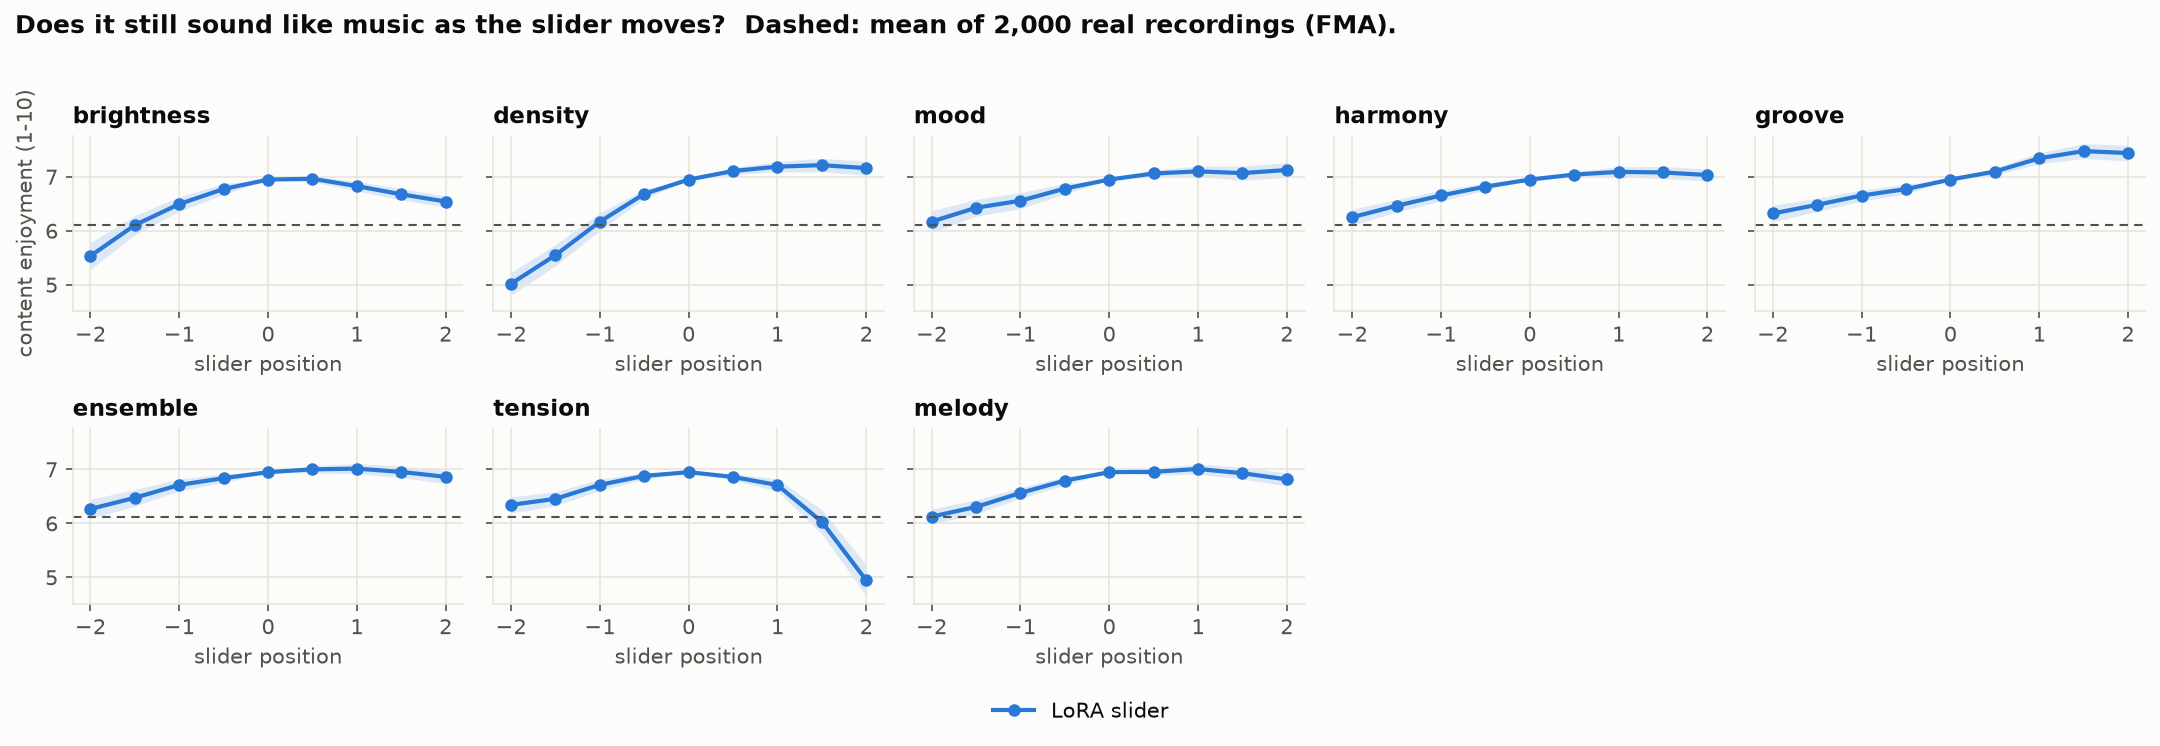
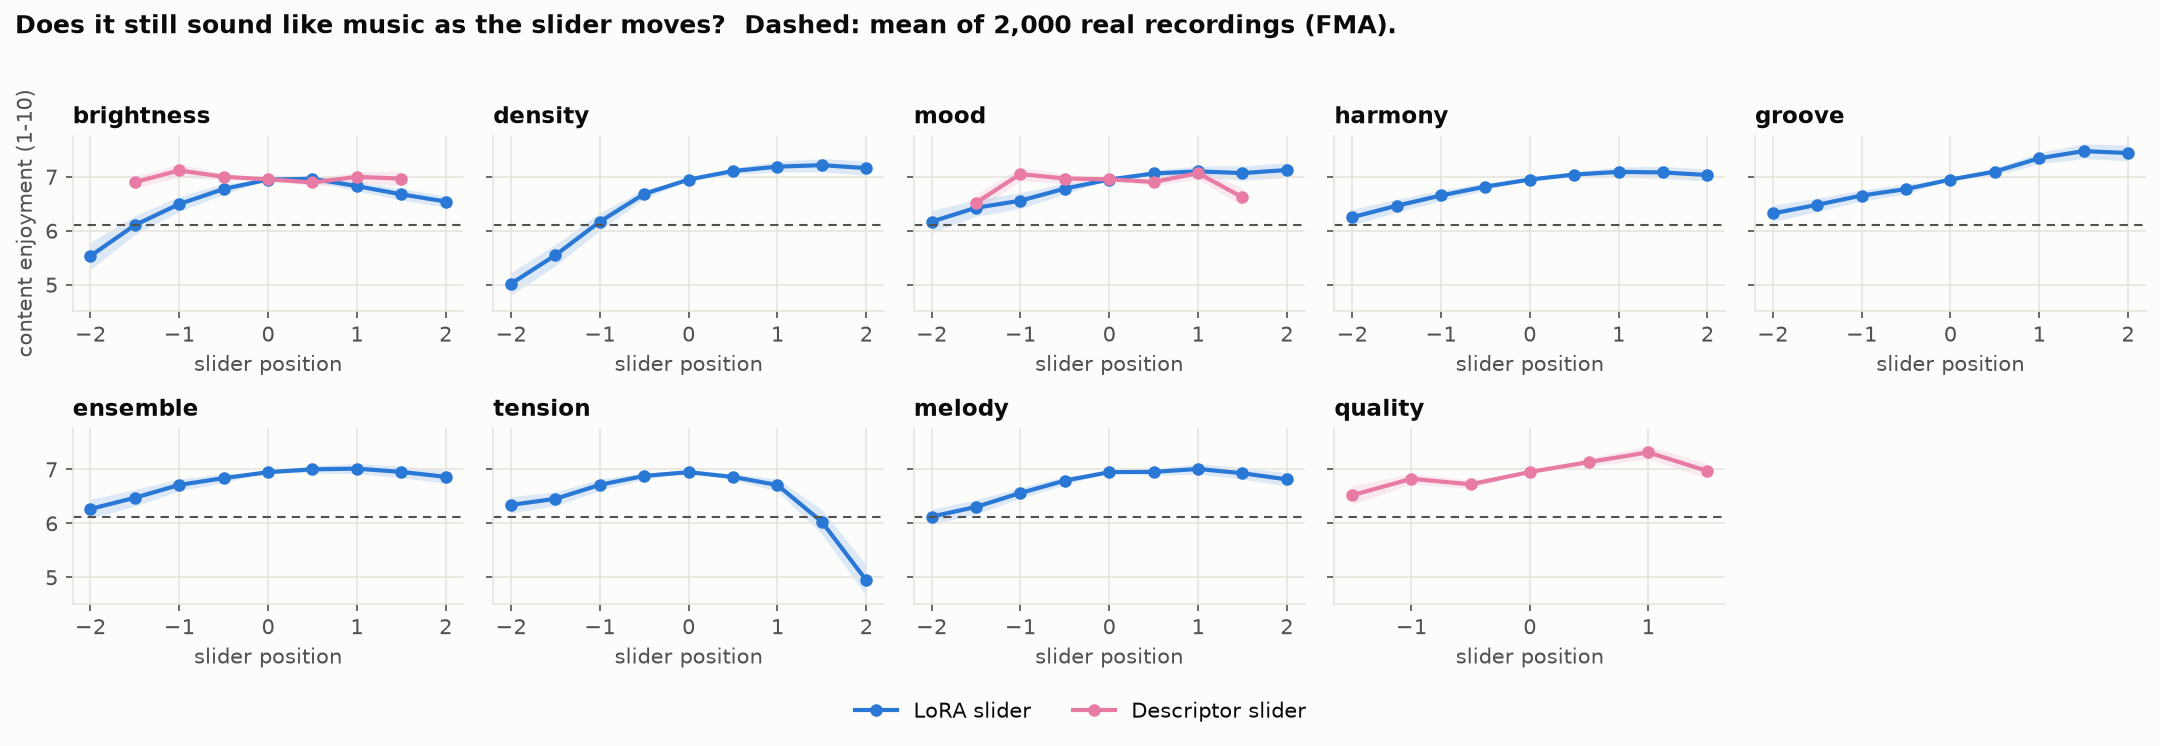
Baselines on ACE-Step: prompt-pair guidance, prompt interpolation, activation steering
All four methods on the same 24 prompts and three seeds, scored on the
waveform descriptor and on MuQ-MuLan. The trained slider matches prompt-pair
guidance with one forward pass per step instead of three and beats it on
harmony. Prompt interpolation has the lowest correlation everywhere and drops
enjoyment to 4.2-5.9 at the ends.

report.py: --figure-methods limits what the main figures draw, --compare
writes a separate method-comparison figure, and the legend now collects
methods from every panel.

diff --git a/experiments/report.py b/experiments/report.py
@@ -41,6 +41,16 @@ def style(plt):
     })
 
 
+def legend(fig, axes, y):
+    """One legend for the figure, collecting every method that appears in any panel."""
+    seen = {}
+    for ax in axes.flat:
+        for h, l in zip(*ax.get_legend_handles_labels()):
+            seen.setdefault(l, h)
+    order = [LABELS[m] for m in COLORS if LABELS[m] in seen]
+    fig.legend([seen[l] for l in order], order, loc="lower center", ncol=len(order), frameon=False, bbox_to_anchor=(0.5, y))
+
+
 def load(root: Path):
     runs = {}
     for d in sorted(root.iterdir()):
@@ -50,7 +60,7 @@ def load(root: Path):
     return runs
 
 
-def response_figure(runs, spec, out, plt):
+def response_figure(runs, spec, out, plt, file="response.png"):
     sliders = [s for s in spec if spec[s].get("measure") and any(k[1] == s for k in runs)]
     cols = min(4, len(sliders))
     rows_n = int(np.ceil(len(sliders) / cols))
@@ -72,11 +82,10 @@ def response_figure(runs, spec, out, plt):
     for ax in axes.flat[len(sliders):]:
         ax.axis("off")
     axes[0, 0].set_ylabel("change in descriptor\n(std of unsteered clips)")
-    handles, labels = axes[0, 0].get_legend_handles_labels()
-    fig.legend(handles, labels, loc="lower center", ncol=len(handles), frameon=False, bbox_to_anchor=(0.5, -0.02))
+    legend(fig, axes, -0.02)
     fig.suptitle("Does the measured descriptor follow the slider?", x=0.01, ha="left", fontweight="bold", fontsize=13)
     fig.tight_layout(rect=(0, 0.04, 1, 0.96))
-    fig.savefig(out / "response.png", bbox_inches="tight")
+    fig.savefig(out / file, bbox_inches="tight")
     plt.close(fig)
 
 
@@ -101,8 +110,7 @@ def tradeoff_figure(runs, spec, out, plt):
     for ax in axes.flat[len(sliders):]:
         ax.axis("off")
     axes[0, 0].set_ylabel("CLAP similarity to unsteered clip")
-    handles, labels = axes[0, 0].get_legend_handles_labels()
-    fig.legend(handles, labels, loc="lower center", ncol=len(handles), frameon=False, bbox_to_anchor=(0.5, -0.02))
+    legend(fig, axes, -0.02)
     fig.suptitle("How much of the clip survives a given amount of change?", x=0.01, ha="left", fontweight="bold",
                  fontsize=13)
     fig.tight_layout(rect=(0, 0.04, 1, 0.96))
@@ -136,7 +144,7 @@ def leakage_figure(runs, spec, method, out, plt):
     return names, table
 
 
-def quality_figure(runs, spec, out, plt, real_mean=None):
+def quality_figure(runs, spec, out, plt, real_mean=None, file="quality.png"):
     """Aesthetics content-enjoyment at each slider position: a flat line means the music survives."""
     sliders = [s for s in spec if any(k[1] == s and any("ce" in r for r in v) for k, v in runs.items())]
     if not sliders:
@@ -158,13 +166,12 @@ def quality_figure(runs, spec, out, plt, real_mean=None):
     for ax in axes.flat[len(sliders):]:
         ax.axis("off")
     axes[0, 0].set_ylabel("content enjoyment (1-10)")
-    handles, labels = axes[0, 0].get_legend_handles_labels()
-    fig.legend(handles, labels, loc="lower center", ncol=len(handles), frameon=False, bbox_to_anchor=(0.5, -0.03))
+    legend(fig, axes, -0.03)
     note = "  Dashed: mean of 2,000 real recordings (FMA)." if real_mean is not None else ""
     fig.suptitle("Does it still sound like music as the slider moves?" + note, x=0.01, ha="left", fontweight="bold",
                  fontsize=12)
     fig.tight_layout(rect=(0, 0.04, 1, 0.95))
-    fig.savefig(out / "quality.png", bbox_inches="tight")
+    fig.savefig(out / file, bbox_inches="tight")
     plt.close(fig)
 
 
@@ -197,6 +204,10 @@ def main():
     ap.add_argument("--max-scale", type=float, default=None, help="ignore scales beyond this magnitude")
     ap.add_argument("--real", default=None, help="directory with clap.npy and rows.jsonl of real recordings")
     ap.add_argument("--vocab", default=None, help="vocab.npz with tag text embeddings")
+    ap.add_argument("--figure-methods", nargs="+", default=None,
+                    help="methods drawn in response.png, tradeoff.png and quality.png; default all")
+    ap.add_argument("--compare", nargs="+", default=None,
+                    help="also draw compare_response.png and compare_quality.png for these methods, on sliders that have them all")
     args = ap.parse_args()
 
     import matplotlib
@@ -269,9 +280,14 @@ def main():
         summary_columns=[dict(key=k, label=l, digits=d) for k, l, d in cols],
     ), default=lambda o: None if isinstance(o, float) and not np.isfinite(o) else o))
 
-    response_figure(runs, spec, out, plt)
-    tradeoff_figure(runs, spec, out, plt)
-    quality_figure(runs, spec, out, plt, real_ce)
+    shown = {k: v for k, v in runs.items() if args.figure_methods is None or k[0] in args.figure_methods}
+    response_figure(shown, spec, out, plt)
+    tradeoff_figure(shown, spec, out, plt)
+    quality_figure(shown, spec, out, plt, real_ce)
+    if args.compare:
+        both = {k: v for k, v in runs.items() if k[0] in args.compare and all((m, k[1]) in runs for m in args.compare)}
+        response_figure(both, spec, out, plt, "compare_response.png")
+        quality_figure(both, spec, out, plt, real_ce, "compare_quality.png")
     if args.vocab:
         tag_table(Path(args.eval), runs, spec, args.vocab, out)
     with (out / "leakage.csv").open("w", newline="") as f:

diff --git a/results/ace/tags.md b/results/ace/tags.md
@@ -1,6 +1,40 @@
 | Slider | Method | Rises toward + | Falls toward + |
 |---|---|---|---|
 | none | base | dark-toned (+0.000), bright (+0.000), classical (+0.000), rock (+0.000) | piano (+0.000), complex (+0.000), simple (+0.000), dense (+0.000) |
+| brightness | Activation steering | happy (+0.379), repetitive (+0.335), romantic (+0.261), acoustic (+0.257) | distorted (-0.194), dark-toned (-0.168), lo-fi (-0.167), dark (-0.098) |
+| density | Activation steering | repetitive (+0.218), complex (+0.217), romantic (+0.214), latin (+0.189) | lo-fi (-0.093), dark-toned (-0.079), quiet (-0.076), hip hop (-0.067) |
+| ensemble | Activation steering | orchestral film score (+0.197), reverberant (+0.158), epic (+0.156), choir (+0.156) | straight (-0.071), funk (-0.046), pop (-0.042), loud (-0.037) |
+| groove | Activation steering | funk (+0.234), happy (+0.214), repetitive (+0.208), latin (+0.203) | choir (-0.108), strings (-0.073), cello (-0.067), flute (-0.062) |
+| harmony | Activation steering | minor key (+0.107), complex (+0.095), major key (+0.085), melancholic (+0.081) | vocals (-0.068), drums (-0.058), strings (-0.044), folk (-0.040) |
+| melody | Activation steering | happy (+0.194), romantic (+0.174), country (+0.170), blues (+0.165) | lo-fi (-0.093), mysterious (-0.075), distorted (-0.071), ambient (-0.057) |
+| mood | Activation steering | happy (+0.384), repetitive (+0.364), latin (+0.329), romantic (+0.304) | distorted (-0.109), dark-toned (-0.090), flute (-0.083), cello (-0.034) |
+| tension | Activation steering | metal (+0.106), techno (+0.095), bass guitar (+0.082), brass (+0.082) | melancholic (-0.214), uplifting (-0.191), repetitive (-0.181), sad (-0.180) |
+| bass | Community slider | distorted (+0.139), brass (+0.136), trumpet (+0.102), vocals (+0.090) | happy (-0.414), melancholic (-0.380), uplifting (-0.375), minor key (-0.369) |
+| energy | Community slider | rock (+0.285), blues (+0.227), metal (+0.226), country (+0.206) | calm (-0.322), reverberant (-0.310), melancholic (-0.272), dreamy (-0.267) |
+| groove | Community slider | funk (+0.495), latin (+0.424), reggae (+0.409), happy (+0.407) | choir (-0.404), reverberant (-0.277), harp (-0.242), cello (-0.228) |
+| mood | Community slider | repetitive (+0.291), happy (+0.258), funk (+0.218), latin (+0.199) | distorted (-0.128), dark-toned (-0.121), vocals (-0.093), flute (-0.089) |
+| percussion | Community slider | metal (+0.303), brass (+0.260), rock (+0.236), aggressive (+0.227) | calm (-0.418), minor key (-0.331), melancholic (-0.331), dreamy (-0.298) |
+| reverb | Community slider | choir (+0.385), brass (+0.226), bells (+0.224), epic (+0.220) | funk (-0.380), reggae (-0.318), repetitive (-0.303), happy (-0.284) |
+| tempo | Community slider | playful (+0.266), fast (+0.242), techno (+0.234), rock (+0.233) | calm (-0.317), lo-fi (-0.267), reverberant (-0.259), dreamy (-0.207) |
+| brightness | Descriptor slider | happy (+0.025), romantic (+0.019), techno (+0.015), bells (+0.014) | lo-fi (-0.068), soul (-0.056), dark-toned (-0.050), ambient (-0.048) |
+| mood | Descriptor slider | cello (+0.058), orchestral film score (+0.058), reverberant (+0.052), choir (+0.044) | lo-fi (-0.048), playful (-0.046), happy (-0.042), straight (-0.041) |
+| quality | Descriptor slider | classical (+0.042), repetitive (+0.041), improvised (+0.041), uplifting (+0.038) | bass guitar (-0.051), dark (-0.045), dark-toned (-0.039), rock (-0.038) |
+| brightness | Prompt interpolation | acoustic (+0.063), happy (+0.056), melancholic (+0.051), major key (+0.040) | distorted (-0.099), trumpet (-0.064), vocals (-0.064), drums (-0.063) |
+| density | Prompt interpolation | blues (+0.047), acoustic guitar (+0.045), metal (+0.039), rock (+0.038) | quiet (-0.062), lo-fi (-0.060), dark-toned (-0.048), ambient (-0.034) |
+| ensemble | Prompt interpolation | orchestral film score (+0.101), reverberant (+0.084), uplifting (+0.071), melancholic (+0.071) | distorted (-0.044), blues (-0.023), loud (-0.021), pop (-0.014) |
+| groove | Prompt interpolation | techno (+0.054), romantic (+0.053), choir (+0.052), rock (+0.050) | quiet (-0.030), mysterious (-0.029), staccato (-0.021), calm (-0.020) |
+| harmony | Prompt interpolation | cello (+0.026), distorted (+0.015), choir (+0.015), trumpet (+0.010) | acoustic (-0.155), simple (-0.148), dry (-0.142), calm (-0.142) |
+| melody | Prompt interpolation | happy (+0.208), repetitive (+0.170), romantic (+0.166), clean (+0.163) | distorted (-0.051), dark-toned (-0.025), flute (-0.020), quiet (-0.005) |
+| mood | Prompt interpolation | happy (+0.248), funk (+0.195), repetitive (+0.184), clean (+0.171) | dark-toned (-0.134), flute (-0.130), distorted (-0.129), choir (-0.119) |
+| tension | Prompt interpolation | trumpet (+0.072), distorted (+0.069), brass (+0.065), vocals (+0.056) | minor key (-0.189), calm (-0.185), happy (-0.173), repetitive (-0.169) |
+| brightness | Prompt-pair guidance | reggae (+0.144), happy (+0.139), complex (+0.130), blues (+0.125) | lo-fi (-0.179), dark-toned (-0.157), quiet (-0.151), ambient (-0.093) |
+| density | Prompt-pair guidance | latin (+0.183), repetitive (+0.169), romantic (+0.159), funk (+0.150) | lo-fi (-0.088), dark-toned (-0.080), quiet (-0.066), calm (-0.060) |
+| ensemble | Prompt-pair guidance | orchestral film score (+0.164), choir (+0.160), epic (+0.144), classical (+0.131) | funk (-0.044), straight (-0.043), pop (-0.020), dry (-0.020) |
+| groove | Prompt-pair guidance | funk (+0.262), reggae (+0.228), latin (+0.188), happy (+0.185) | choir (-0.175), brass (-0.117), epic (-0.112), strings (-0.110) |
+| harmony | Prompt-pair guidance | minor key (+0.125), calm (+0.092), major key (+0.089), dreamy (+0.087) | vocals (-0.029), country (-0.027), blues (-0.025), brass (-0.019) |
+| melody | Prompt-pair guidance | happy (+0.188), romantic (+0.181), blues (+0.177), country (+0.162) | lo-fi (-0.118), mysterious (-0.068), ambient (-0.057), hip hop (-0.055) |
+| mood | Prompt-pair guidance | happy (+0.289), repetitive (+0.262), latin (+0.253), funk (+0.218) | distorted (-0.128), dark-toned (-0.118), lo-fi (-0.091), flute (-0.083) |
+| tension | Prompt-pair guidance | rock (+0.116), metal (+0.115), distorted (+0.097), techno (+0.081) | melancholic (-0.260), uplifting (-0.231), reverberant (-0.206), sad (-0.205) |
 | brightness | LoRA slider | happy (+0.267), repetitive (+0.215), romantic (+0.196), complex (+0.189) | dark-toned (-0.179), lo-fi (-0.178), quiet (-0.158), distorted (-0.102) |
 | density | LoRA slider | latin (+0.227), repetitive (+0.223), romantic (+0.216), happy (+0.212) | dark-toned (-0.088), quiet (-0.083), lo-fi (-0.069), reverberant (-0.057) |
 | ensemble | LoRA slider | orchestral film score (+0.190), epic (+0.190), choir (+0.186), romantic (+0.124) | straight (-0.089), funk (-0.075), hip hop (-0.054), pop (-0.046) |

diff --git a/results/ace/summary.md b/results/ace/summary.md
@@ -1,10 +1,44 @@
 | Slider | Method | Monotonicity ρ | Ends ordered | MuQ ρ | MuQ ordered | Usable from | to | Descriptor moved (std) | CLAP moved | Piece kept | Quality at 0 | Quality at ends |
 |---|---|---:|---:|---:|---:|---:|---:|---:|---:|---:|---:|---:|
 | brightness | LoRA slider | 0.97 ± 0.01 | 1.00 | 0.80 ± 0.04 | 1.00 | -1.0 | 2.0 | 4.41 ± 0.41 | 0.300 | 0.74 | 6.95 | 6.04 |
+| brightness | Prompt-pair guidance | 0.89 ± 0.06 | 0.98 | 0.81 ± 0.03 | 1.00 | -0.5 | 2.0 | 2.76 ± 0.44 | 0.185 | 0.76 | 6.96 | 6.24 |
+| brightness | Prompt interpolation | 0.49 ± 0.07 | 0.79 | 0.35 ± 0.09 | 0.71 | -1.0 | 1.0 | 0.92 ± 0.33 | 0.086 | 0.88 | 6.96 | 4.21 |
+| brightness | Descriptor slider | 0.81 ± 0.03 | 1.00 |  |  | -1.5 | 1.5 | 1.52 ± 0.17 | 0.090 | 0.72 | 6.95 | 6.93 |
+| brightness | Activation steering | 0.93 ± 0.03 | 1.00 | 0.81 ± 0.06 | 1.00 | -1.0 | 4.0 | 1.72 ± 0.31 | 0.155 | 0.83 | 6.96 | 6.11 |
 | density | LoRA slider | 0.78 ± 0.09 | 0.92 | 0.86 ± 0.04 | 1.00 | -0.5 | 2.0 | 1.25 ± 0.20 | 0.168 | 0.84 | 6.95 | 6.09 |
+| density | Prompt-pair guidance | 0.74 ± 0.12 | 0.92 | 0.81 ± 0.10 | 0.94 | -0.5 | 2.0 | 1.74 ± 0.31 | 0.128 | 0.84 | 6.96 | 6.43 |
+| density | Prompt interpolation | 0.10 ± 0.07 | 0.25 | 0.38 ± 0.08 | 0.73 | -1.0 | 1.5 | 0.50 ± 0.39 | 0.036 | 0.84 | 6.96 | 4.34 |
+| density | Activation steering | 0.71 ± 0.13 | 0.85 | 0.86 ± 0.08 | 1.00 | -1.0 | 4.0 | 1.63 ± 0.32 | 0.147 | 0.87 | 6.96 | 6.46 |
+| reverb | Community slider | 0.81 ± 0.06 | 1.00 |  |  | -6.0 | 2.0 | 1.36 ± 0.42 | 0.158 | 0.80 | 6.96 | 6.05 |
+| energy | Community slider | 0.91 ± 0.04 | 1.00 |  |  | -6.0 | 6.0 | 2.26 ± 0.17 | 0.423 | 0.59 | 6.96 | 6.53 |
+| tempo | Community slider | 0.61 ± 0.10 | 0.89 |  |  | -2.0 | 4.0 | 0.60 ± 0.27 | 0.284 | 0.70 | 6.96 | 6.22 |
+| percussion | Community slider | 0.32 ± 0.20 | 0.75 |  |  | -6.0 | 2.0 | -0.35 ± 0.52 | 0.111 | 0.82 | 6.96 | 5.71 |
+| bass | Community slider | 0.83 ± 0.06 | 1.00 |  |  | -6.0 | 2.0 | 0.86 ± 0.22 | 0.060 | 0.86 | 6.96 | 5.81 |
 | mood | LoRA slider | 0.39 ± 0.10 | 0.75 | 0.88 ± 0.03 | 1.00 | -1.0 | 2.0 | 0.87 ± 0.32 | 0.230 | 0.79 | 6.95 | 6.65 |
+| mood | Prompt-pair guidance | 0.45 ± 0.13 | 0.83 | 0.87 ± 0.02 | 1.00 | -1.0 | 2.0 | 1.13 ± 0.39 | 0.200 | 0.77 | 6.96 | 6.70 |
+| mood | Prompt interpolation | 0.25 ± 0.11 | 0.52 | 0.63 ± 0.06 | 0.96 | -1.5 | 2.0 | 0.24 ± 0.36 | 0.116 | 0.65 | 6.96 | 5.87 |
+| mood | Descriptor slider | 0.31 ± 0.09 | 0.74 |  |  | -1.5 | 1.5 | 0.56 ± 0.23 | -0.048 | 0.62 | 6.95 | 6.57 |
+| mood | Activation steering | 0.41 ± 0.12 | 0.71 | 0.88 ± 0.03 | 1.00 | -1.0 | 4.0 | 1.28 ± 0.38 | 0.146 | 0.83 | 6.96 | 6.37 |
+| mood | Community slider | 0.40 ± 0.12 | 0.85 |  |  | -2.0 | 6.0 | 0.71 ± 0.30 | 0.074 | 0.87 | 6.96 | 6.55 |
 | harmony | LoRA slider | 0.41 ± 0.12 | 0.76 | 0.73 ± 0.05 | 0.96 | -1.5 | 2.0 | 0.84 ± 0.24 | 0.124 | 0.83 | 6.95 | 6.64 |
+| harmony | Prompt-pair guidance | 0.08 ± 0.18 | 0.56 | 0.68 ± 0.09 | 0.94 | -1.5 | 2.0 | 0.05 ± 0.39 | 0.100 | 0.83 | 6.96 | 6.73 |
+| harmony | Prompt interpolation | -0.01 ± 0.10 | 0.42 | 0.23 ± 0.09 | 0.52 | -1.5 | 1.5 | 0.21 ± 0.27 | 0.077 | 0.74 | 6.96 | 5.45 |
+| harmony | Activation steering | 0.24 ± 0.17 | 0.71 | 0.72 ± 0.07 | 0.98 | -3.0 | 4.0 | 0.60 ± 0.34 | 0.099 | 0.83 | 6.96 | 6.72 |
 | groove | LoRA slider |  |  | 0.56 ± 0.08 | 0.96 | -1.5 | 2.0 |  | 0.090 | 0.79 | 6.95 | 6.88 |
+| groove | Prompt-pair guidance |  |  | 0.71 ± 0.09 | 0.96 | -1.0 | 2.0 |  | 0.132 | 0.78 | 6.96 | 6.84 |
+| groove | Prompt interpolation |  |  | 0.12 ± 0.06 | 0.35 | -1.0 | 1.5 |  | -0.000 | 0.86 | 6.96 | 4.23 |
+| groove | Activation steering |  |  | 0.58 ± 0.09 | 0.94 | -3.0 | 4.0 |  | 0.094 | 0.83 | 6.96 | 6.79 |
+| groove | Community slider |  |  |  |  | -1.0 | 6.0 |  | 0.103 | 0.74 | 6.96 | 6.42 |
 | ensemble | LoRA slider | 0.60 ± 0.10 | 0.90 | 0.77 ± 0.07 | 0.94 | -1.5 | 2.0 | 0.92 ± 0.18 | 0.163 | 0.80 | 6.95 | 6.56 |
+| ensemble | Prompt-pair guidance | 0.55 ± 0.14 | 0.88 | 0.75 ± 0.07 | 0.98 | -1.0 | 2.0 | 0.83 ± 0.25 | 0.125 | 0.82 | 6.96 | 6.61 |
+| ensemble | Prompt interpolation | 0.25 ± 0.09 | 0.67 | 0.25 ± 0.07 | 0.60 | -1.5 | 1.5 | 0.48 ± 0.15 | 0.106 | 0.77 | 6.96 | 5.33 |
+| ensemble | Activation steering | 0.58 ± 0.14 | 0.92 | 0.67 ± 0.12 | 0.98 | -2.0 | 4.0 | 0.67 ± 0.21 | 0.155 | 0.85 | 6.96 | 6.61 |
 | tension | LoRA slider |  |  | 0.86 ± 0.04 | 1.00 | -1.5 | 1.0 |  | 0.035 | 0.83 | 6.95 | 5.64 |
+| tension | Prompt-pair guidance |  |  | 0.88 ± 0.03 | 1.00 | -2.0 | 1.0 |  | 0.077 | 0.79 | 6.96 | 6.23 |
+| tension | Prompt interpolation |  |  | 0.69 ± 0.07 | 0.96 | -1.0 | 1.0 |  | 0.033 | 0.90 | 6.96 | 5.21 |
+| tension | Activation steering |  |  | 0.91 ± 0.03 | 1.00 | -4.0 | 2.0 |  | 0.068 | 0.85 | 6.96 | 6.50 |
 | melody | LoRA slider | 0.48 ± 0.11 | 0.78 | 0.89 ± 0.04 | 1.00 | -1.0 | 2.0 | 0.97 ± 0.28 | 0.235 | 0.80 | 6.95 | 6.47 |
+| melody | Prompt-pair guidance | 0.51 ± 0.13 | 0.81 | 0.83 ± 0.05 | 0.98 | -1.0 | 2.0 | 0.96 ± 0.34 | 0.211 | 0.81 | 6.96 | 6.53 |
+| melody | Prompt interpolation | 0.31 ± 0.08 | 0.77 | 0.38 ± 0.07 | 0.75 | -1.0 | 1.5 | 0.62 ± 0.25 | 0.036 | 0.88 | 6.96 | 4.93 |
+| melody | Activation steering | 0.53 ± 0.11 | 0.83 | 0.83 ± 0.06 | 0.98 | -2.0 | 4.0 | 0.92 ± 0.42 | 0.218 | 0.83 | 6.96 | 6.64 |
+| quality | Descriptor slider | 0.45 ± 0.07 | 0.82 |  |  | -1.5 | 1.5 | 0.72 ± 0.25 |  | 0.66 | 6.95 | 6.75 |

diff --git a/README.md b/README.md
@@ -163,7 +163,28 @@ The prompt-pair trainer asks the slider to reproduce a shift in the frozen model
 
 ### 10. Against other methods
 
-Two outside approaches were run through the same protocol on ACE-Step, on the same prompts and seeds.
+Four other ways of moving the same attribute were run through the same protocol on ACE-Step, on the same prompts and seeds. Rank correlation with the waveform descriptor, then with the MuQ-MuLan direction:
+
+| Slider | Trained slider | Prompt-pair guidance | Activation steering | Prompt interpolation |
+|---|---:|---:|---:|---:|
+| brightness | 0.97 / 0.80 | 0.89 / 0.81 | 0.93 / 0.81 | 0.49 / 0.35 |
+| density | 0.78 / 0.86 | 0.74 / 0.81 | 0.71 / 0.86 | 0.10 / 0.38 |
+| ensemble | 0.60 / 0.77 | 0.55 / 0.75 | 0.58 / 0.67 | 0.25 / 0.25 |
+| melody | 0.48 / 0.89 | 0.51 / 0.83 | 0.53 / 0.83 | 0.31 / 0.38 |
+| harmony | 0.41 / 0.73 | 0.08 / 0.68 | 0.24 / 0.72 | -0.01 / 0.23 |
+| mood | 0.39 / 0.88 | 0.45 / 0.87 | 0.41 / 0.88 | 0.25 / 0.63 |
+| groove (MuQ only) | 0.56 | 0.71 | 0.58 | 0.12 |
+| tension (MuQ only) | 0.86 | 0.88 | 0.91 | 0.69 |
+| Forward passes per sampling step | 1 | 3 | 1 | 1 |
+| Training | 10 min per slider | none | none | none |
+
+![Descriptor response of four methods on six sliders](results/ace/compare_response.png)
+
+- **The trained slider reproduces prompt-pair guidance at a third of the sampling cost.** Guidance is the slider's own training target applied directly at every step (the FreeSliders recipe), and it needs two extra forward passes per step. The slider matches it within the confidence interval on five of six descriptors and beats it on harmony (0.41 against 0.08).
+- **Prompt interpolation does not work on this model.** Moving the text conditioning toward the positive or negative prompt gives the lowest correlation on every attribute, and enjoyment at the ends falls to between 4.2 and 5.9 (unsteered: 6.96).
+- **Activation steering is a real competitor**, covered next.
+
+Full table with confidence intervals: [`results/ace/summary.md`](results/ace/summary.md).
 
 **Activation steering** (the training-free approach TADA argues for: add the mean difference in cross-attention output between the positive and the negative prompt, times the slider position). It needs no training at all.
 
